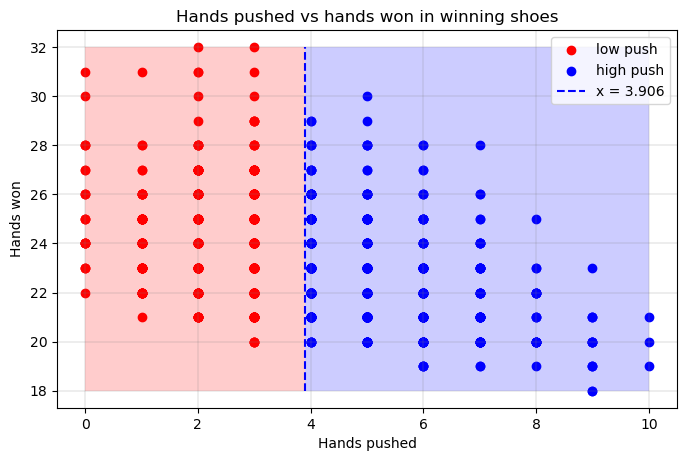
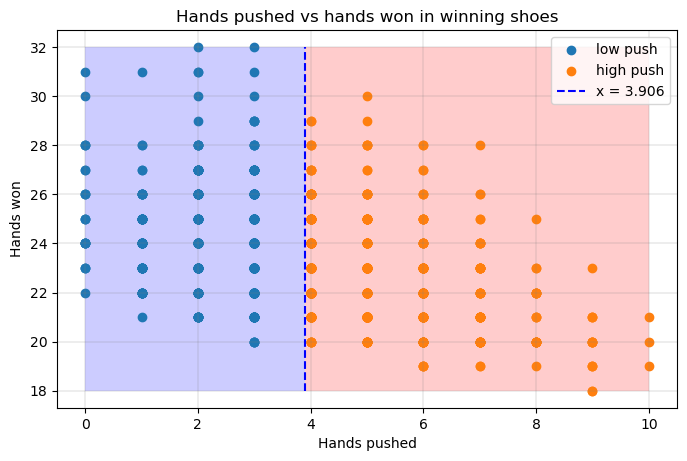
Commit

diff --git a/blackjack/analysis/shoe_data.py b/blackjack/analysis/shoe_data.py
@@ -273,17 +273,13 @@ xmin = win_push_low['push'].min()
 xmax = win_push_high['push'].max()
 
 # Use fill_between to show both groups
-ax.fill_between((xmin, push_mean), y1=ymin, y2=ymax, facecolor='red',
+ax.fill_between((xmin, push_mean), y1=ymin, y2=ymax, facecolor='blue',
                 alpha=0.2, label='low push')
-ax.fill_between((push_mean, xmax), y1=ymin, y2=ymax, facecolor='blue', alpha=0.2)
+ax.fill_between((push_mean, xmax), y1=ymin, y2=ymax, facecolor='red', alpha=0.2)
 
 # Plot push vs player win in win_push_low and win_push_high
-ax.legend([plt.scatter(x=win_push_low['push'], 
-                       y=win_push_low['player_win'], 
-                       color='red'),
-            plt.scatter(x=win_push_high['push'], 
-                        y=win_push_high['player_win'], 
-                        color='blue'),
+ax.legend([plt.scatter(x=win_push_low['push'], y=win_push_low['player_win']),
+            plt.scatter(x=win_push_high['push'], y=win_push_high['player_win']),
             plt.vlines(x=3.906, ymin=ymin, ymax=ymax, colors='blue', linestyles='dashed')],
         ['low push', 'high push', 'x = 3.906'])
 
